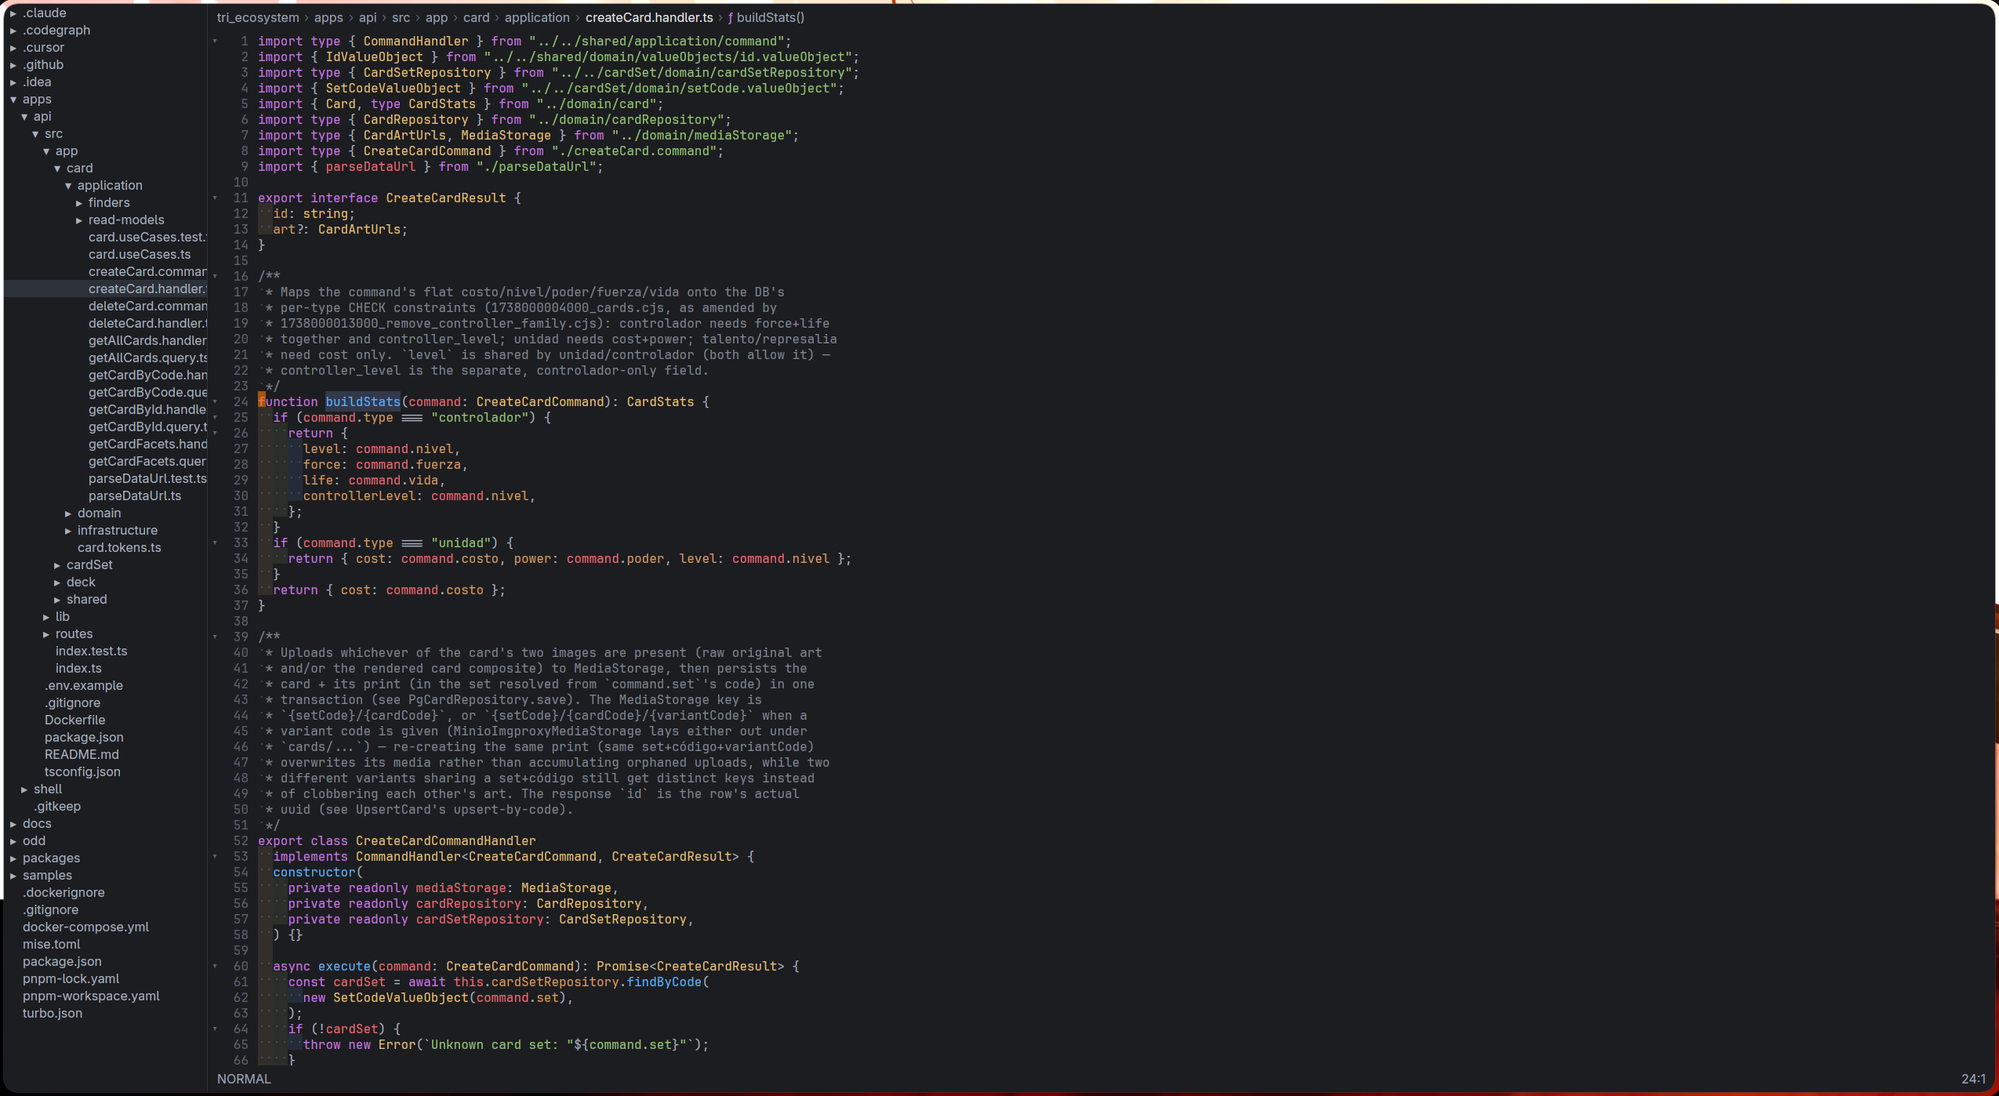
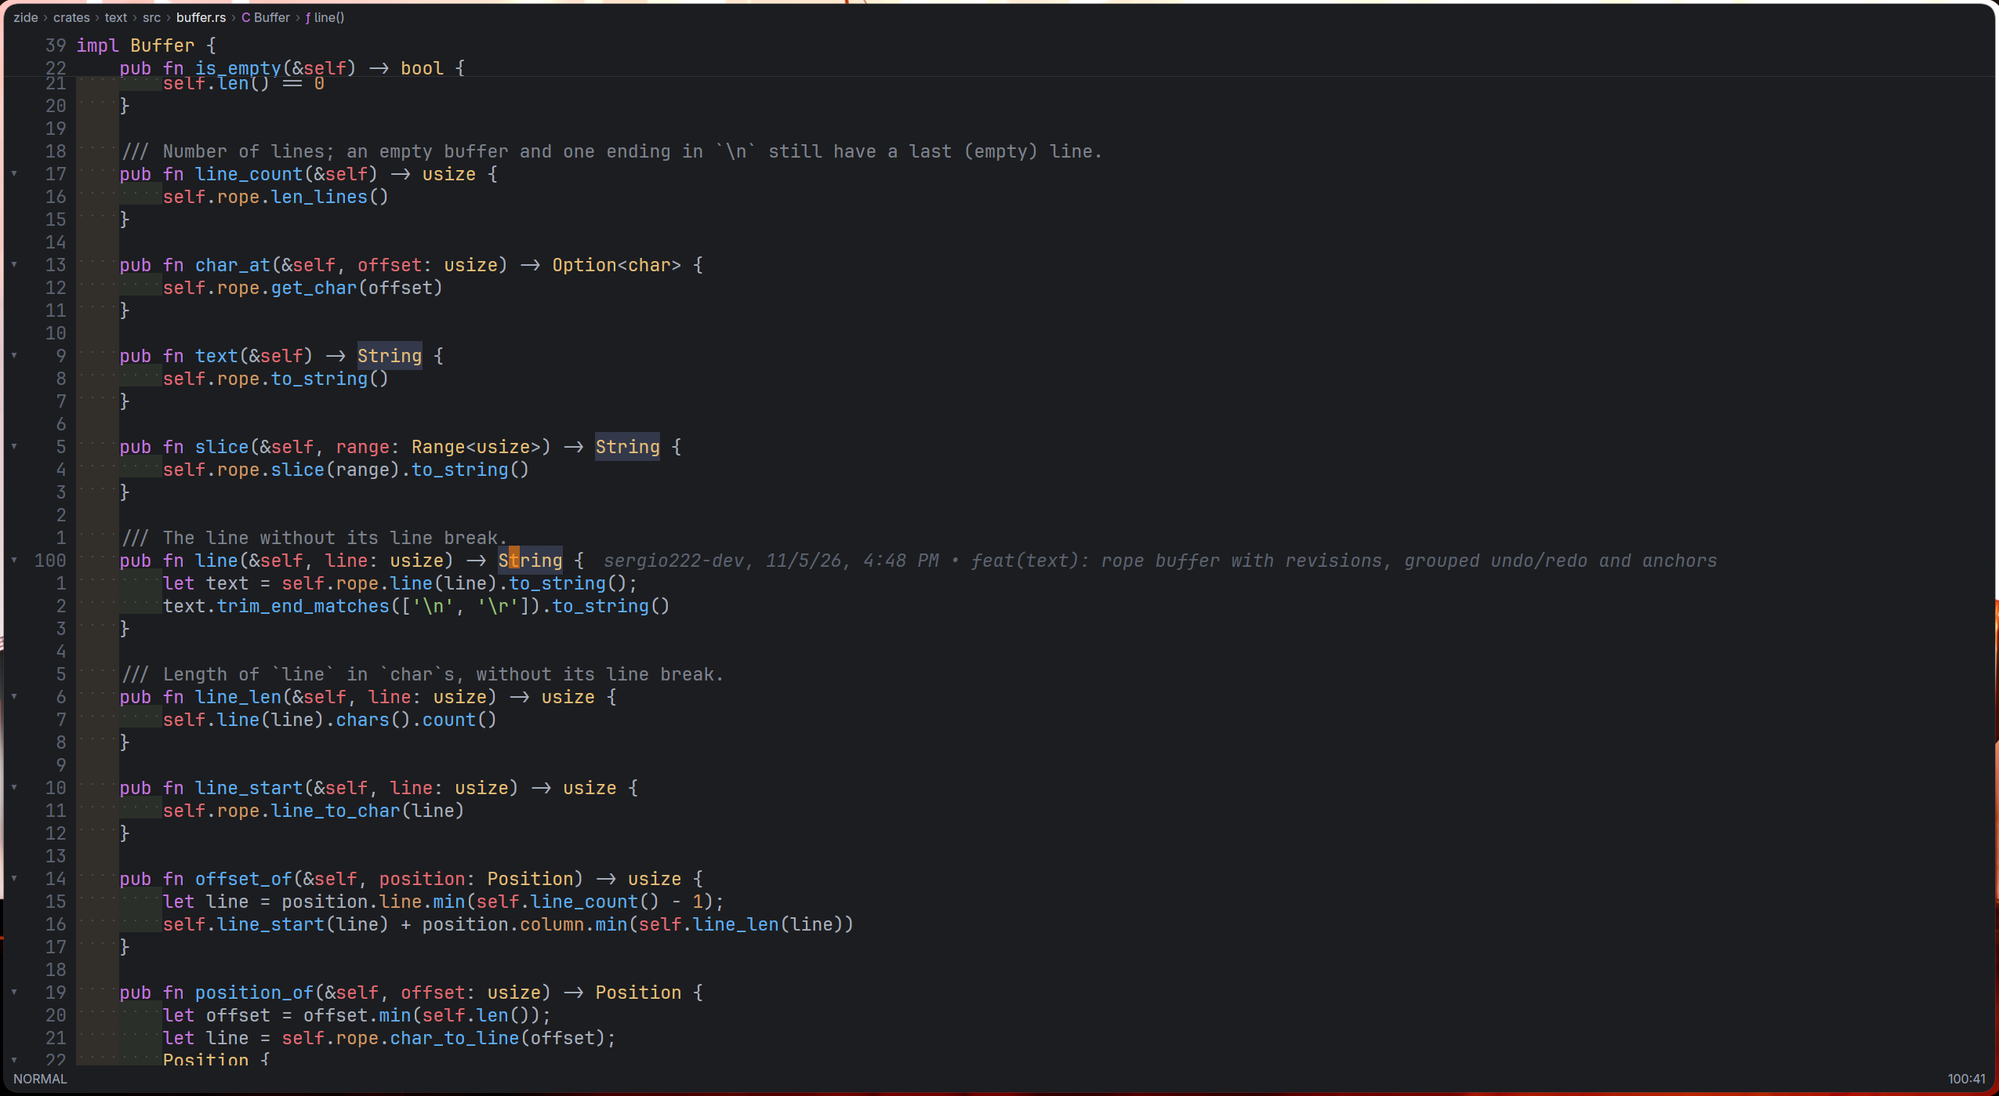
docs: new screenshots of the editor and Search Everywhere

diff --git a/README.md b/README.md
@@ -2,7 +2,12 @@
 
 A fast, keyboard-driven code editor with Vim motions and an IntelliJ-style keymap, written in Rust.
 
-![Zide editing a TypeScript project](docs/screenshot.png)
+![Zide editing a Rust file](docs/screenshot.png)
+
+<p>
+  <img src="docs/search-files.png" alt="Search Everywhere, Files tab" width="49%">
+  <img src="docs/search-actions.png" alt="Search Everywhere, Actions tab" width="49%">
+</p>
 
 > Zide was built with [Claude](https://claude.com/claude-code) (Claude Code) and is written in
 > [Rust](https://www.rust-lang.org/), on top of the [GPUI](https://www.gpui.rs/) UI framework.
